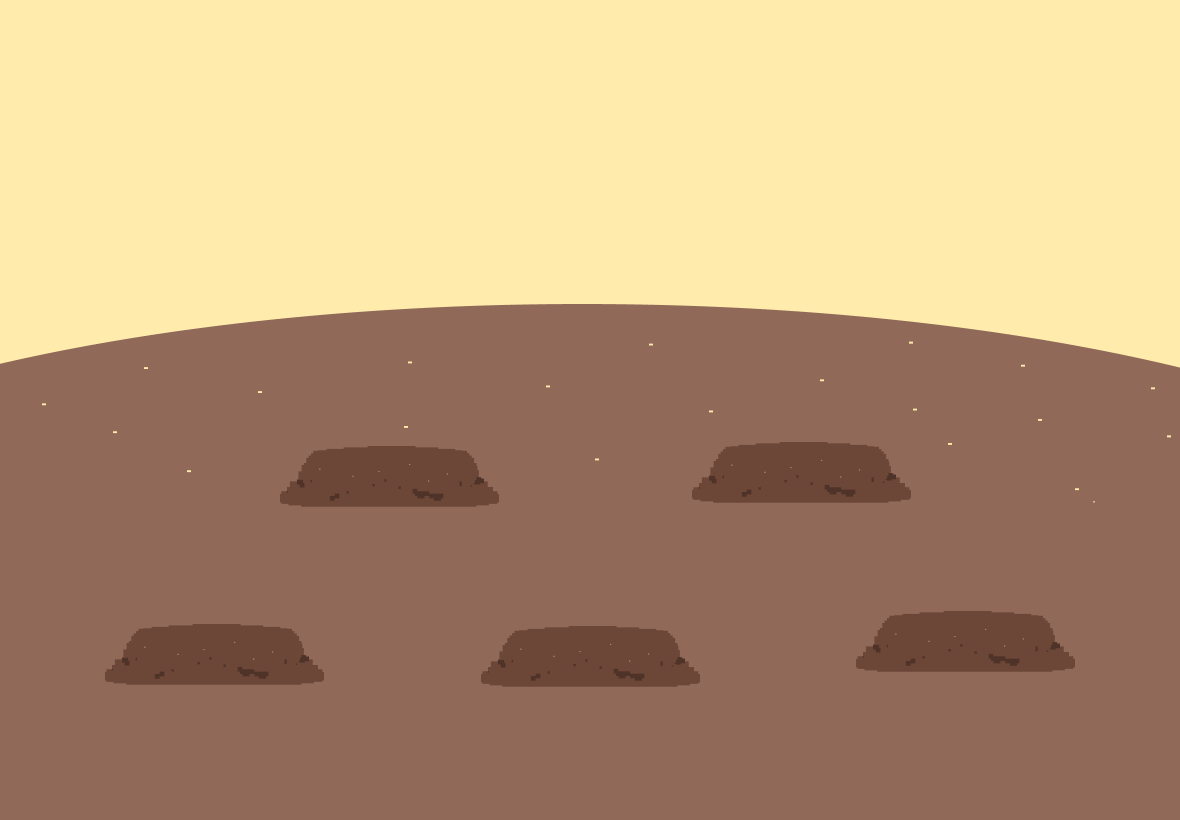
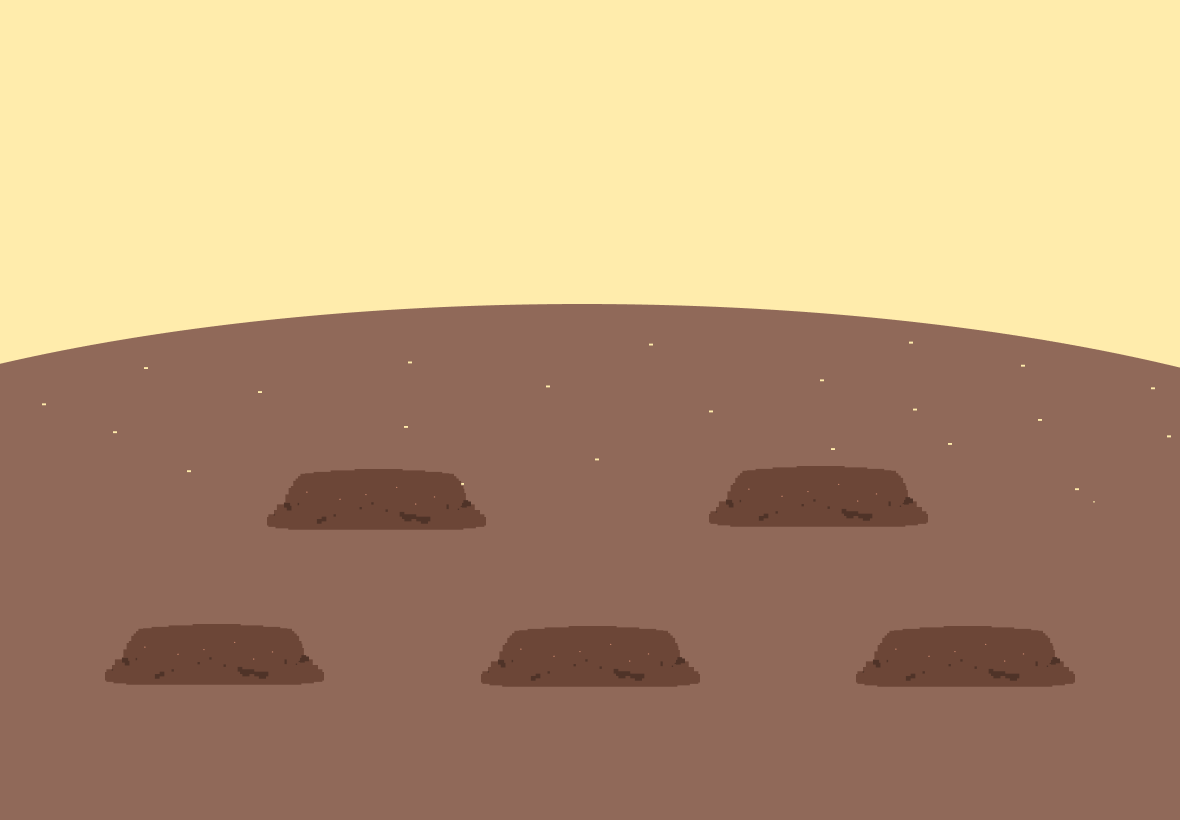
Style :: 두더지 게임 css 수정

Changed region(s): [[0.2136, 0.5183, 0.4271, 0.6707], [0.7017, 0.7317, 0.9153, 0.8537], [0.5797, 0.5183, 0.7932, 0.6402]]

diff --git a/src/pages/student/mole/play.jsx b/src/pages/student/mole/play.jsx
@@ -1,26 +1,302 @@
-import React from 'react';
-import styled from 'styled-components';
+import React, { useState, useEffect, useCallback, useRef } from 'react';
+import { useNavigate } from 'react-router-dom';
+import styled, { css, keyframes } from 'styled-components';
+import GameOver from '../../../components/gameover.jsx';
+
+import HeartImg from '../../../assets/fillheart.png';
+import EmptyHeartImg from '../../../assets/emptyheart.png';
+import DefaultMole from '../../../assets/defaultmole.png';
+import HitMole from '../../../assets/hitmole.png';
+import BgImg from '../../../assets/molebg.png';
+
+const TOTAL_LIVES = 3;
+const NUM_SPOTS = 5;
+const MOLE_SHOW_TIME = 1500; // 두더지가 올라와있는 시간
+const MOLE_INTERVAL = 800; // 두더지 등장 간격
+const SLOW_CLICK_THRESHOLD = 1000; // 느린 클릭 기준 (1초)
+
+const MOLE_COLORS = {
+  TITLE: '#000000',
+  SUBTITLE: '#858585',
+  GAME_OVER: '#A19081',
+  GAME_OVER_HOVER: '#856C56',
+  SCORE: '#6C4637',
+};
+
+const fadeIn = keyframes`
+  from {
+    opacity: 0;
+  }
+  to {
+    opacity: 1;
+  }
+`;
+
+const fadeOut = keyframes`
+  from {
+    opacity: 1;
+  }
+  to {
+    opacity: 0;
+  }
+`;
+
+const MessageOverlay = styled.div`
+  position: absolute;
+  top: 50%;
+  left: 50%;
+  transform: translate(-50%, -50%);
+  font-size: 48px;
+  font-weight: bold;
+  color: #EF4444;
+  z-index: 200;
+  animation: ${props => props.$isShowing ? fadeIn : fadeOut} 0.3s ease-in-out;
+  pointer-events: none;
+`;
 
 const Container = styled.div`
   width: 1180px;
   height: 730px;
+  background-image: url(${BgImg});
+  background-size: cover;
+  background-position: center;
+  position: relative;
+  overflow: hidden;
+  user-select: none;
+`;
+
+const HeartWrapper = styled.div`
+  position: absolute;
+  top: 20px;
+  left: 30px;
+  display: flex;
+  gap: 8px;
+`;
+
+const Heart = styled.img`
+  width: 50px;
+  height: 42px;
+`;
+
+const GameSpotContainer = styled.div`
+  position: absolute;
+  bottom: 0px;
+  left: 50%;
+  transform: translateX(-50%);
   display: flex;
   flex-direction: column;
   align-items: center;
-  justify-content: center;
-  background-color: #E3FFE9;
+  width: 1100px;
 `;
 
-const Title = styled.h1`
-  font-size: 36px;
-  font-weight: bold;
-  color: #22C55E;
+const GameSpotRow = styled.div`
+  display: flex;
+  justify-content: center;
+  gap: 40px;
+  ${props => props.$isTopRow && css`
+    margin-bottom: 30px;
+  `}
+`;
+
+const ANSWER_BUTTON_WIDTH = 220;
+
+const GameSpot = styled.div`
+  width: ${ANSWER_BUTTON_WIDTH}px;
+  height: 200px;
+  background-color: transparent;
+  position: relative;
+  cursor: pointer;
+
+  ${props => props.$isTopRow && css`
+    margin: 0 100px;
+  `}
+
+  ${props => props.$isBottomEdge && css`
+    margin: 0 120px;
+  `}
+
+  &:hover {
+    opacity: 0.9;
+  }
+`;
+
+const MoleImage = styled.img`
+  position: absolute;
+  top: ${props => props.$isTopRow ? '60%' : '20%'};
+  left: ${props => props.$isTopRow ? '53%' : '50%'};
+  transform: translate(-50%, -50%);
+  width: 200px;
+  height: 200px;
+  object-fit: contain;
+  opacity: 0;
+  transition: opacity 0.1s;
+  pointer-events: none;
+
+  ${props => props.$isVisible && css`
+    opacity: 1;
+  `}
 `;
 
 export default function MolePlay() {
+  const navigate = useNavigate();
+  const [lives, setLives] = useState(TOTAL_LIVES);
+  const [score, setScore] = useState(0);
+  const [activeMole, setActiveMole] = useState(null); // 현재 올라온 두더지 위치
+  const [hitMole, setHitMole] = useState(null); // 맞은 두더지 위치
+  const [showSlowMessage, setShowSlowMessage] = useState(false);
+  const [gameOver, setGameOver] = useState(false);
+
+  const moleStartTime = useRef(null);
+  const gameInterval = useRef(null);
+
+  const allSpots = Array.from({ length: NUM_SPOTS }, (_, i) => i);
+  const topSpots = allSpots.slice(0, 2);
+  const bottomSpots = allSpots.slice(2, 5);
+
+  // 두더지 올리기
+  const showMole = useCallback(() => {
+    if (lives === 0) return;
+
+    const randomSpot = Math.floor(Math.random() * NUM_SPOTS);
+    setActiveMole(randomSpot);
+    setHitMole(null);
+    moleStartTime.current = Date.now();
+
+    // 일정 시간 후 두더지 내리기
+    setTimeout(() => {
+      setActiveMole(prev => {
+        // 두더지가 맞지 않았으면 하트 감소
+        if (prev === randomSpot) {
+          setLives(l => Math.max(0, l - 1));
+        }
+        return null;
+      });
+      moleStartTime.current = null;
+    }, MOLE_SHOW_TIME);
+  }, [lives]);
+
+  // 두더지 클릭 핸들러
+  const handleMoleClick = useCallback((spotIndex) => {
+    if (activeMole !== spotIndex || hitMole !== null) return;
+
+    const clickTime = Date.now();
+    const reactionTime = clickTime - moleStartTime.current;
+
+    // 두더지 맞춤
+    setHitMole(spotIndex);
+    setActiveMole(null);
+    setScore(prev => prev + 100);
+
+    // 느린 클릭 체크
+    if (reactionTime > SLOW_CLICK_THRESHOLD) {
+      setShowSlowMessage(true);
+      setTimeout(() => {
+        setShowSlowMessage(false);
+      }, 1000);
+    }
+
+    // hit 이미지 표시 후 사라지기
+    setTimeout(() => {
+      setHitMole(null);
+    }, 300);
+  }, [activeMole, hitMole]);
+
+  // 게임 시작
+  useEffect(() => {
+    // 초기 딜레이 후 게임 시작
+    const startTimeout = setTimeout(() => {
+      showMole();
+
+      gameInterval.current = setInterval(() => {
+        showMole();
+      }, MOLE_SHOW_TIME + MOLE_INTERVAL);
+    }, 1000);
+
+    return () => {
+      clearTimeout(startTimeout);
+      if (gameInterval.current) {
+        clearInterval(gameInterval.current);
+      }
+    };
+  }, [showMole]);
+
+  // 생명이 0이 되면 게임 오버
+  useEffect(() => {
+    if (lives === 0 && !gameOver) {
+      setGameOver(true);
+      if (gameInterval.current) {
+        clearInterval(gameInterval.current);
+      }
+    }
+  }, [lives, gameOver]);
+
+  const handleGameOverClose = () => {
+    navigate('/std/main');
+  };
+
   return (
     <Container>
-      <Title>두.. 때리기 게임</Title>
+      <HeartWrapper>
+        {Array.from({ length: TOTAL_LIVES }).map((_, index) => (
+          <Heart
+            key={index}
+            src={index < lives ? HeartImg : EmptyHeartImg}
+            alt="Life"
+          />
+        ))}
+      </HeartWrapper>
+
+      {showSlowMessage && (
+        <MessageOverlay $isShowing={showSlowMessage}>
+          좀 더 빠르게!
+        </MessageOverlay>
+      )}
+
+      <GameSpotContainer>
+        <GameSpotRow $isTopRow={true}>
+          {topSpots.map((index) => (
+            <GameSpot
+              key={index}
+              onClick={() => handleMoleClick(index)}
+              $isTopRow={true}
+            >
+              <MoleImage
+                src={hitMole === index ? HitMole : DefaultMole}
+                $isVisible={activeMole === index || hitMole === index}
+                $isTopRow={true}
+              />
+            </GameSpot>
+          ))}
+        </GameSpotRow>
+
+        <GameSpotRow>
+          {bottomSpots.map((index, idx) => (
+            <GameSpot
+              key={index}
+              onClick={() => handleMoleClick(index)}
+              $isBottomEdge={idx === 0 || idx === 2}
+            >
+              <MoleImage
+                src={hitMole === index ? HitMole : DefaultMole}
+                $isVisible={activeMole === index || hitMole === index}
+                $isTopRow={false}
+              />
+            </GameSpot>
+          ))}
+        </GameSpotRow>
+      </GameSpotContainer>
+
+      {gameOver && (
+        <GameOver
+          finalScore={score}
+          onClose={handleGameOverClose}
+          titleColor={MOLE_COLORS.TITLE}
+          subtitleColor={MOLE_COLORS.SUBTITLE}
+          gameOverColor={MOLE_COLORS.GAME_OVER}
+          gameOverHoverColor={MOLE_COLORS.GAME_OVER_HOVER}
+          scoreColor={MOLE_COLORS.SCORE}
+        />
+      )}
     </Container>
   );
 }

diff --git a/src/pages/student/memory/play.jsx b/src/pages/student/memory/play.jsx
@@ -27,7 +27,7 @@ const ModalOverlay = styled.div`
   left: 0;
   width: 100%;
   height: 100%;
-  background-color: rgba(0, 0, 0, 0.6);
+  background-color: rgba(0, 0, 0, 0.4);
   display: flex;
   justify-content: center;
   align-items: center;
